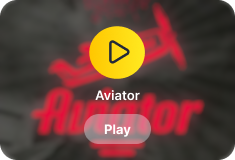
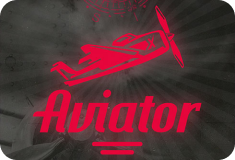
some fixes with slider

diff --git a/src/index.html b/src/index.html
@@ -400,40 +400,100 @@
           <div class="ProductBlock">
             <div class="Content">
               <div class="img-fill">
-                <img class="slider__image" alt="game" src="./images/aviator.png" />
-                <img class="slider__image" alt="game" src="./images/bigger-bass.png" />
+                <img class="slider__image" alt="game" src="./images/aviator.png">
+                  <a href="https://www.bettilt282.com/tr/casino?partner=p2855p19355pa305&source=Buzznw" class="slider__hover-image-container--first">
+                    <img class="slider__image-play slider__image-play--first" alt="game" src="./images/play.svg" />
+                    <p class="slider__text">Aviator</p>
+                    <p class="slider__play">Play</p>
+                  </a>
+                </img>
+                <img class="slider__image" alt="game" src="./images/bigger-bass.png">
+                  <a href="https://www.bettilt282.com/tr/casino?partner=p2855p19355pa305&source=Buzznw" class="slider__hover-image-container--second">
+                    <img class="slider__image-play slider__image-play--first" alt="game" src="./images/play.svg" />
+                    <p class="slider__text">Aviator</p>
+                    <p class="slider__play">Play</p>
+                  </a>
+                </img>
               </div>
             </div>
           </div>
           <div class="ProductBlock">
             <div class="Content">
               <div class="img-fill">
-                <img class="slider__image" alt="game" src="./images/lightning.png" />
-                <img class="slider__image" alt="game" src="./images/coin-clip.png" />
+                <img class="slider__image" alt="game" src="./images/lightning.png">
+                  <a href="https://www.bettilt282.com/tr/casino?partner=p2855p19355pa305&source=Buzznw" class="slider__hover-image-container--first">
+                    <img class="slider__image-play slider__image-play--first" alt="game" src="./images/play.svg" />
+                    <p class="slider__text">Lightning</p>
+                    <p class="slider__play">Play</p>
+                  </a>
+                </img>
+                <img class="slider__image" alt="game" src="./images/coin-clip.png">
+                  <a href="https://www.bettilt282.com/tr/casino?partner=p2855p19355pa305&source=Buzznw" class="slider__hover-image-container--second">
+                    <img class="slider__image-play slider__image-play--first" alt="game" src="./images/play.svg" />
+                    <p class="slider__text">Aviator</p>
+                    <p class="slider__play">Play</p>
+                  </a>
+                </img>
               </div>
             </div>
           </div>
           <div class="ProductBlock">
             <div class="Content">
               <div class="img-fill">
-                <img class="slider__image" alt="game" src="./images/olymp-gates.png" />
-                <img class="slider__image" alt="game" src="./images/knight-rider.png" />
+                <img class="slider__image" alt="game" src="./images/olymp-gates.png">
+                  <a href="https://www.bettilt282.com/tr/casino?partner=p2855p19355pa305&source=Buzznw" class="slider__hover-image-container--first">
+                    <img class="slider__image-play slider__image-play--first" alt="game" src="./images/play.svg" />
+                    <p class="slider__text">Gates of Olympus</p>
+                    <p class="slider__play">Play</p>
+                  </a>
+                </img>
+                <img class="slider__image" alt="game" src="./images/knight-rider.png">
+                <a href="https://www.bettilt282.com/tr/casino?partner=p2855p19355pa305&source=Buzznw" class="slider__hover-image-container--second">
+                  <img class="slider__image-play slider__image-play--first" alt="game" src="./images/play.svg" />
+                  <p class="slider__text">Aviator</p>
+                  <p class="slider__play">Play</p>
+                </a>
+                </img>
               </div>
             </div>
           </div>
           <div class="ProductBlock">
             <div class="Content">
               <div class="img-fill">
-                <img class="slider__image" alt="game" src="./images/sweet-bonanza.png" />
-                <img class="slider__image" alt="game" src="./images/starlight-princess.png" />
+                <img class="slider__image" alt="game" src="./images/sweet-bonanza.png">
+                  <a href="https://www.bettilt282.com/tr/casino?partner=p2855p19355pa305&source=Buzznw" class="slider__hover-image-container--first">
+                    <img class="slider__image-play slider__image-play--first" alt="game" src="./images/play.svg" />
+                    <p class="slider__text">Sweet bonanza</p>
+                    <p class="slider__play">Play</p>
+                  </a>
+                </img>
+                <img class="slider__image" alt="game" src="./images/starlight-princess.png">
+                  <a href="https://www.bettilt282.com/tr/casino?partner=p2855p19355pa305&source=Buzznw" class="slider__hover-image-container--second">
+                    <img class="slider__image-play slider__image-play--first" alt="game" src="./images/play.svg" />
+                    <p class="slider__text">Aviator</p>
+                    <p class="slider__play">Play</p>
+                  </a>
+                </img>
               </div>
             </div>
           </div>
           <div class="ProductBlock">
             <div class="Content">
               <div class="img-fill">
-                <img class="slider__image" alt="game" src="./images/bandits.png" />
-                <img class="slider__image" alt="game" src="./images/sugar rush.png" />
+                <img class="slider__image" alt="game" src="./images/bandits.png">
+                  <a href="https://www.bettilt282.com/tr/casino?partner=p2855p19355pa305&source=Buzznw" class="slider__hover-image-container--first">
+                    <img class="slider__image-play slider__image-play--first" alt="game" src="./images/play.svg" />
+                    <p class="slider__text">Sticky bandits</p>
+                    <p class="slider__play">Play</p>
+                  </a>
+                </img>
+                <img class="slider__image" alt="game" src="./images/sugar rush.png">
+                  <a href="https://www.bettilt282.com/tr/casino?partner=p2855p19355pa305&source=Buzznw" class="slider__hover-image-container--second">
+                    <img class="slider__image-play slider__image-play--first" alt="game" src="./images/play.svg" />
+                    <p class="slider__text">Aviator</p>
+                    <p class="slider__play">Play</p>
+                  </a>
+                </img>
               </div>
             </div>
           </div>

diff --git a/src/styles/slider.css b/src/styles/slider.css
@@ -91,13 +91,6 @@
   text-align: center
 }
 
-.img-fill img {
-  position: relative;
-  display: inline-block;
-  max-width: none
-}
-
-
 .Container {
   padding: 0 15px;
   margin-left: 99px;
@@ -163,7 +156,6 @@
 }
 
 .ProductBlock h3 {
-  font: 15px/36px RalewayR;
   color: #393939;
   margin-top: 5px;
   text-align: center;
@@ -180,6 +172,12 @@
   text-shadow: 1px 1px 1px rgba(0, 0, 0, 0.04);
 }
 
+.slide {
+  background-image: url('../images/aviator.png');
+  z-index: 12px;
+  position: relative;
+}
+
 .slider__more {
   display: none;
   color: #FFD60E;
@@ -187,6 +185,86 @@
   font-weight: 400;
   position: absolute;
   right: 240px;
+}
+
+.slider__link {
+  /* position: relative; */
+  right: 120px;
+  bottom: 10px;
+}
+
+.slider__image-play {
+  width: 55px;
+  margin-bottom: 8px;
+  bottom: 68px;
+  position: absolute;
+  left: 50%;
+  transform: translateX(-50%);
+}
+
+.slider__hover-image-container--first {
+  position: absolute;
+  top: 0px;
+  width: 100%;
+  text-decoration: none;
+  color: white;
+  opacity: 0;
+  font-size: 13px;
+  font-weight: 600;
+  height: calc(50%  - 5px);
+  transition: all 0.3s;
+  border-radius: 17px;
+}
+
+.slider__hover-image-container--second {
+  position: absolute;
+  bottom: 0px;
+  width: 100%;
+  text-decoration: none;
+  color: white;
+  opacity: 0;
+  font-size: 13px;
+  font-weight: 600;
+  height: calc(50%  - 5px);
+  transition: all 0.3s;
+  border-radius: 17px;
+}
+
+.slider__text {
+  position: absolute;
+  bottom: 53px;
+  left: 50%;
+  white-space: nowrap;
+  transform: translateX(-50%);
+}
+
+.slider__image-play--second {
+  position: absolute;
+  border-radius: 17px;
+  bottom: 0px;
+  opacity: 0;
+  transition: all 0.3s;
+}
+
+.slider__hover-image-container--first:hover {
+  opacity: 1;
+  backdrop-filter: blur(3px);
+}
+
+.slider__hover-image-container--second:hover {
+  opacity: 1;
+  backdrop-filter: blur(3px);
+}
+
+.slider__play {
+  padding: 7px 20px;
+  background-color: rgba(225, 243, 247, 0.4);
+  position: absolute;
+  bottom: 16px;
+  left: 50%;
+  transform: translateX(-50%);
+  display: inline-block;
+  border-radius: 17px;
 }
 
 @media (max-width: 1200px) {

diff --git a/src/styles/first-section.css b/src/styles/first-section.css
@@ -3,7 +3,7 @@
   margin-left: 99px;
   margin-right: 116px;
   display: flex;
-  margin-bottom: 50px;
+  margin-bottom: 80px;
   flex-direction: column;
 }
 
@@ -81,15 +81,16 @@
 }
 
 .first-section__bonus-image {
+  background-position: 90% 33%;
   position: relative;
   overflow: hidden;
-  background-position: 100% 33%;
   bottom: 300px;
+  background-size: contain;
   width: 70%;
   height: 270px;
   background-color: #0026F5;
   border-radius: 16px;
-  background-image: url('../images/test.png');
+  background-image: url('../images/bonus-image.png');
   background-repeat: no-repeat;
   margin: 0 auto;
   margin-top: 20px;
@@ -176,6 +177,11 @@
   font-weight: 500;
   font-size: 13px;
 }
+@media (max-width: 1300px) {
+  .first-section__bonus-image {
+    background-position: 120% 33%;
+  }
+}
 
 @media (max-width: 1200px) {
   .first-section {
@@ -207,12 +213,19 @@
   .first-section__bonus-image-pretitle {
     font-size: 16px;
   }
+
+  .first-section__bonus-image {
+    background-image: url("../images/test.png");
+    background-position: 100%;
+    background-size: auto;
+  }
 }
 
 @media (max-width: 720px) {
   .first-section {
     margin-right: 16px;
     margin-left: 16px;
+    margin-bottom: 50px;
   }
 
   .first-section__title {
@@ -252,6 +265,7 @@
     background-repeat: no-repeat;
     bottom: 273px;
     width: 100%;
+    margin-left: 16px;
   }
 
   .first-section__bonus-image-text-container {

diff --git a/src/styles/banner.css b/src/styles/banner.css
@@ -283,10 +283,6 @@ button:focus {outline: none;}
 		height: 290px;
 	}
 
-	.welcome-banner {
-		height: 290px;
-	}
-
 	.welcome-banner__title {
 		font-size: 20px;
 		margin-top: 220px;
@@ -302,7 +298,7 @@ button:focus {outline: none;}
 	}
 }
 
-@media (max-width: 375px) {
+@media (max-width: 720px) {
 	.main__image--first {
 		background-position: 100%;
 		background-image: url('../images/main-image-mobile.png');
@@ -311,12 +307,12 @@ button:focus {outline: none;}
 
 	.main__image--second {
 		background-image: url('../images/second-slide-mobile.png');
-		background-position: 67%;
+		background-position: 100%;
 	}
 	
 	.main__image--third {
 		background-image: url('../images/third-slide-mobile.png');
-		background-position: 65%;
+		background-position: 100%;
 	}
 
 	.welcome-banner {

diff --git a/src/styles/second-section.css b/src/styles/second-section.css
@@ -3,6 +3,7 @@
   flex-direction: column;
   align-items: center;
   width: 100%;
+  margin-top: -20px;
 }
 
 .second-section__title {
@@ -127,7 +128,7 @@
 .second-section__table-title-container {
   width: 170px;
   border-right: 1px solid #232939;
-  padding: 8px 0;
+  padding: 2px 0;
   font-weight: 600;
 }
 
@@ -196,6 +197,10 @@
 }
 
 @media (max-width: 720px) {
+  .second-section {
+    margin-top: -10px;
+  }
+
   .second-section__title {
     width: calc(100% - 32px);
     font-size: 18px;

diff --git a/src/scripts/main.js b/src/scripts/main.js
@@ -265,7 +265,7 @@ $(document).ready(function(){
       speed: 700,
       slidesToShow:5,
       slidesToScroll:1,
-      pauseOnHover:false,
+      pauseOnHover:true,
       appendArrows:$(".Container .Head .Arrows"),
       prevArrow:'<span class="Slick-Prev"></span>',
       nextArrow:'<span class="Slick-Next"></span>',

diff --git a/src/styles/tenth-section.css b/src/styles/tenth-section.css
@@ -56,7 +56,7 @@
 }
 
 .tenth-section__table-title-container {
-  padding: 8px 0;
+  padding: 2px 0;
   width: 130px;
   font-weight: 600;
   border-right: 1px solid #232939;
